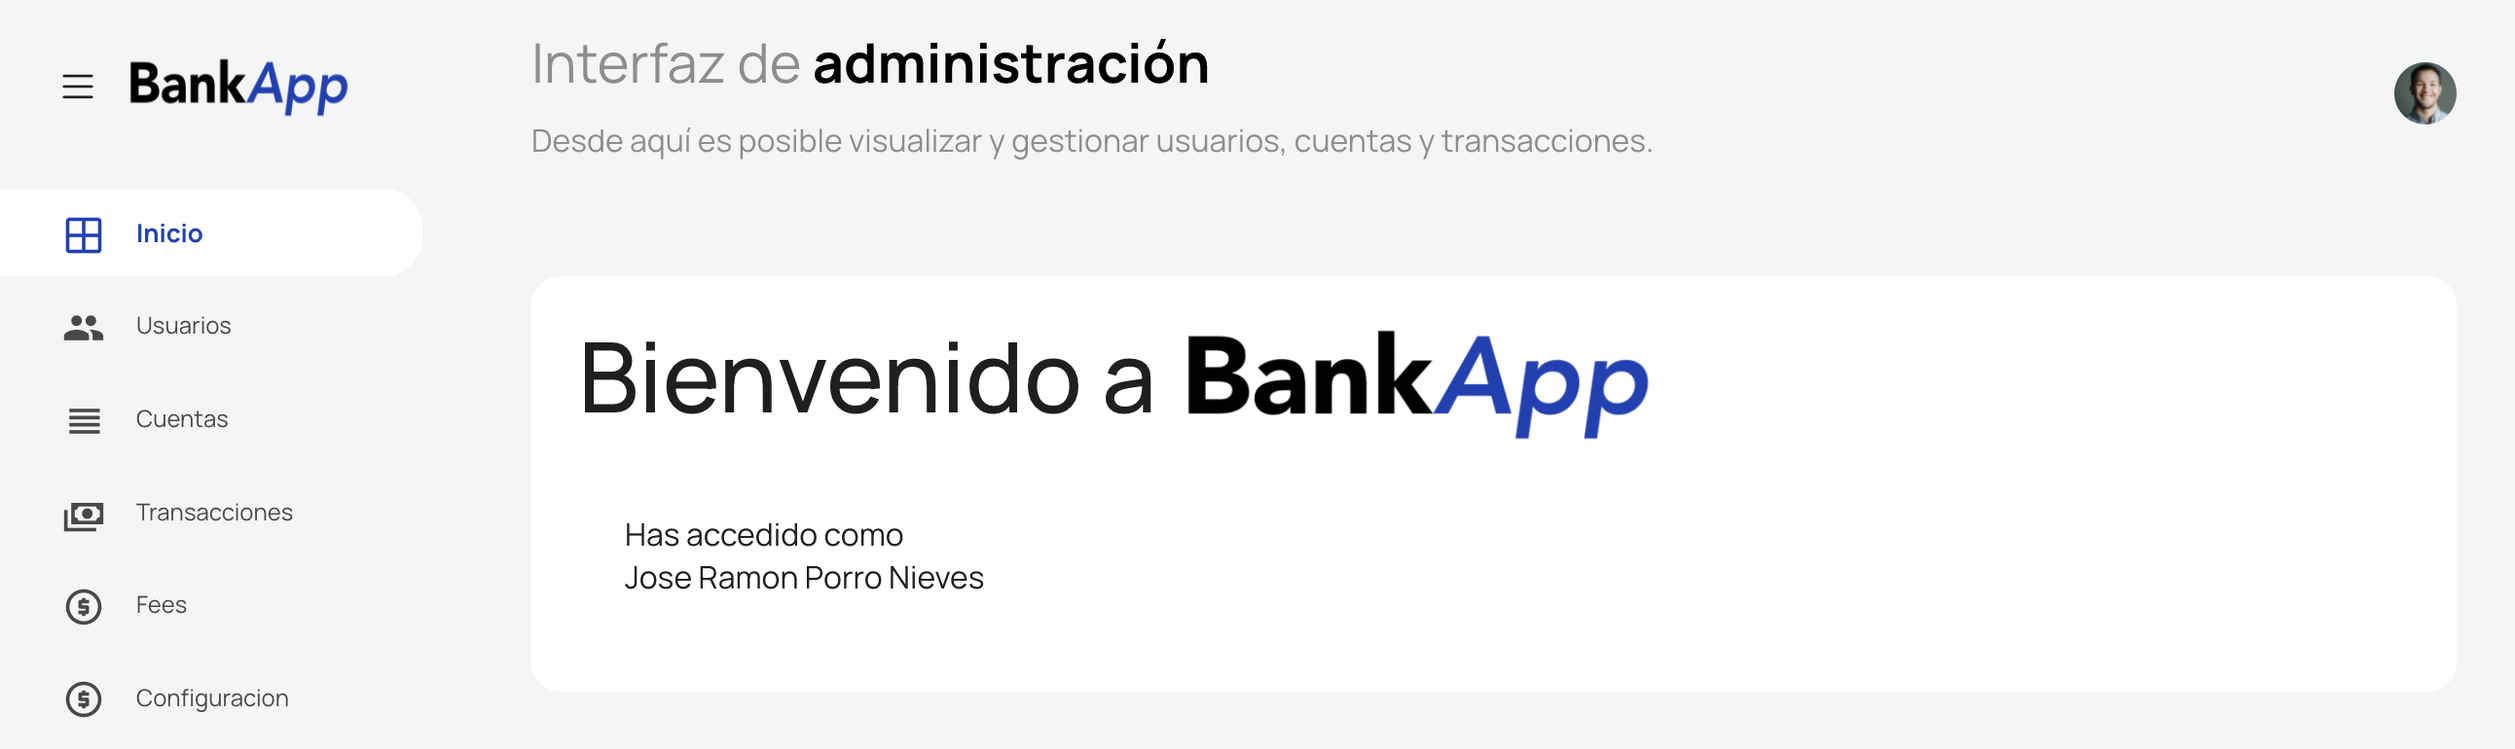
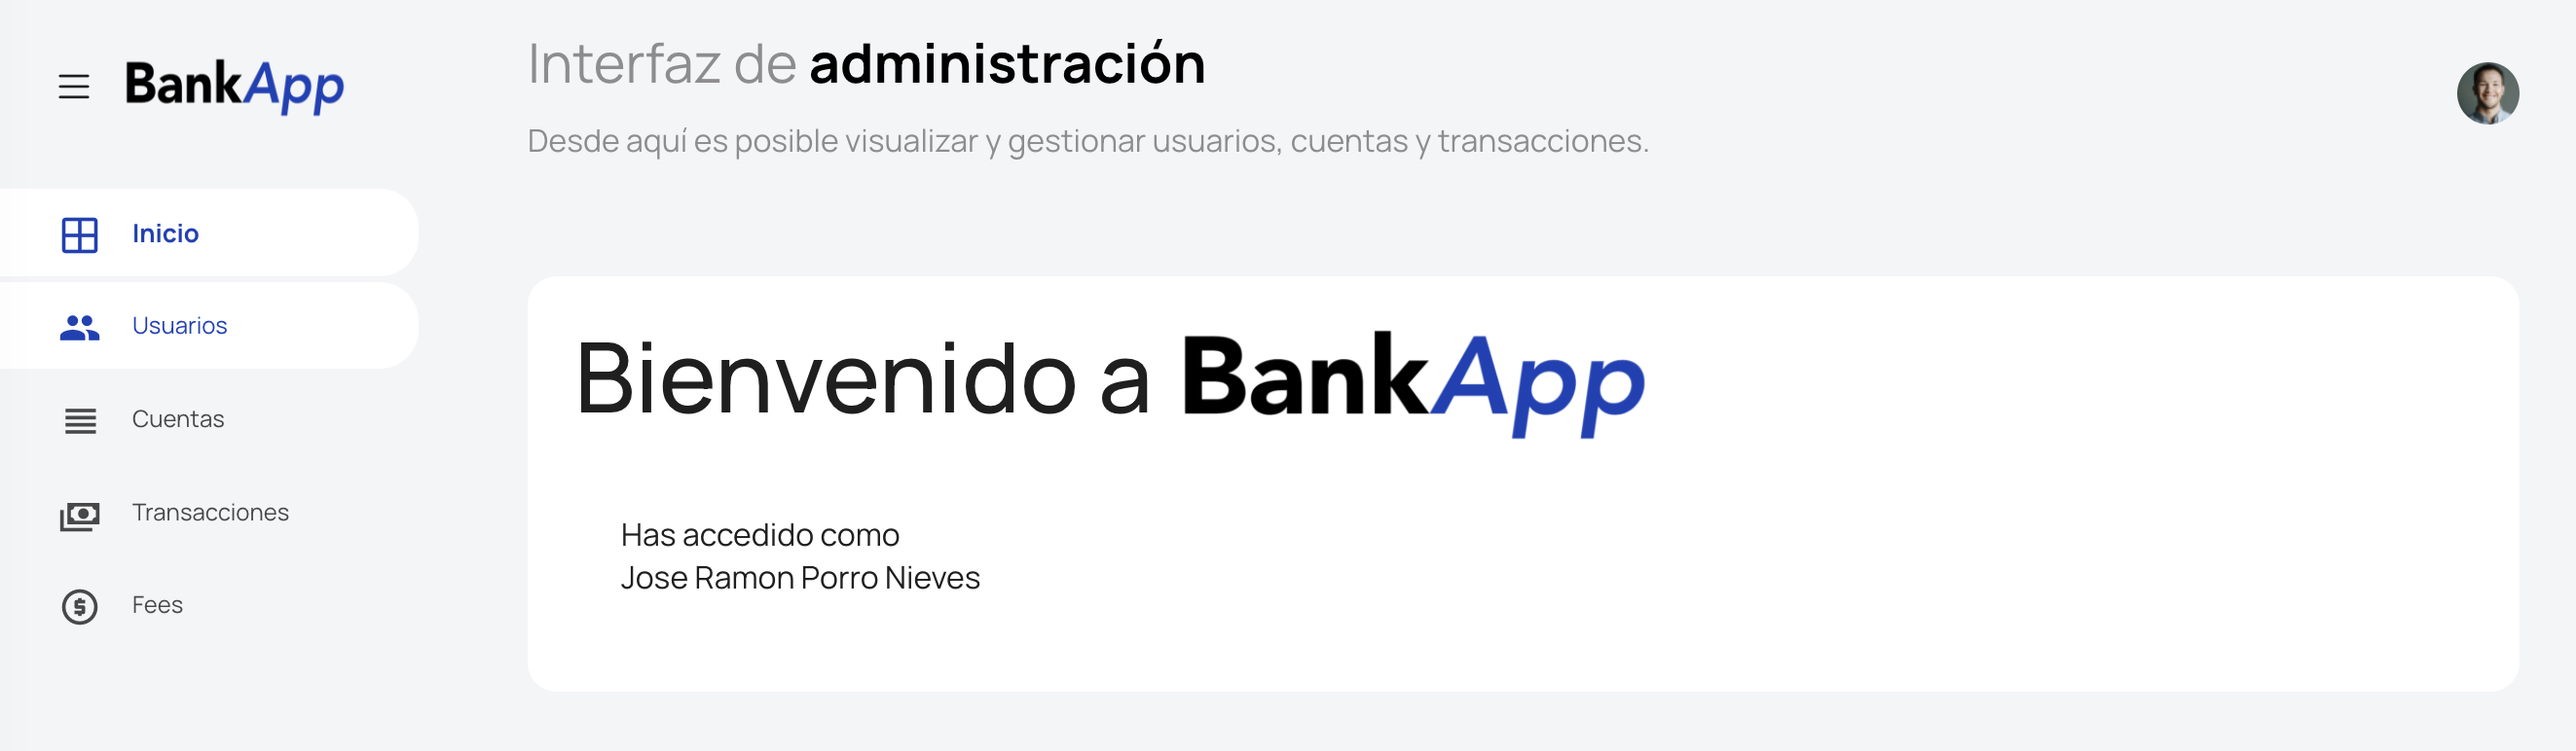
Final

diff --git a/src/main/resources/static/users.html b/src/main/resources/static/users.html
@@ -125,7 +125,7 @@
 
                           <h3>Usuarios</h3>
                           <a href="newUser.html">Crear nuevo usuario</a>
-                          <br><a href="userAccounts.html">Obtener cuentas asociadas a un usuario (DNI)</a>
+                          
                           <p>Para consultar las cuentas asociadas a un usuario, haga clic en alguna de las filas.</p>
                           <!-- Tabla principal -->
                           <div id="containerTabla">

diff --git a/src/main/resources/static/accounts.html b/src/main/resources/static/accounts.html
@@ -101,12 +101,6 @@
               <span class="menu-title">Fees</span>
             </a>
           </li>
-          <li class="nav-item">
-            <a class="nav-link" href="pagina.html">
-              <i class="mdi mdi-coin menu-icon"></i>
-              <span class="menu-title">Configuracion</span>
-            </a>
-          </li>
         </ul>
       </nav>
       <!-- partial -->

diff --git a/src/main/resources/static/admin.html b/src/main/resources/static/admin.html
@@ -103,12 +103,6 @@
               <span class="menu-title">Fees</span>
             </a>
           </li>
-          <li class="nav-item">
-            <a class="nav-link" href="pagina.html">
-              <i class="mdi mdi-coin menu-icon"></i>
-              <span class="menu-title">Configuracion</span>
-            </a>
-          </li>
         </ul>
       </nav>
       <!-- partial -->

diff --git a/src/main/resources/static/fees.html b/src/main/resources/static/fees.html
@@ -104,12 +104,6 @@
               <span class="menu-title">Fees</span>
             </a>
           </li>
-          <li class="nav-item">
-            <a class="nav-link" href="pagina.html">
-              <i class="mdi mdi-coin menu-icon"></i>
-              <span class="menu-title">Configuracion</span>
-            </a>
-          </li>
         </ul>
       </nav>
       <!-- partial -->

diff --git a/src/main/resources/static/newAccount.html b/src/main/resources/static/newAccount.html
@@ -101,12 +101,6 @@
               <span class="menu-title">Fees</span>
             </a>
           </li>
-          <li class="nav-item">
-            <a class="nav-link" href="pagina.html">
-              <i class="mdi mdi-coin menu-icon"></i>
-              <span class="menu-title">Configuracion</span>
-            </a>
-          </li>
         </ul>
       </nav>
       <!-- partial -->

diff --git a/src/main/resources/static/newUser.html b/src/main/resources/static/newUser.html
@@ -104,12 +104,6 @@
               <span class="menu-title">Fees</span>
             </a>
           </li>
-          <li class="nav-item">
-            <a class="nav-link" href="pagina.html">
-              <i class="mdi mdi-coin menu-icon"></i>
-              <span class="menu-title">Configuracion</span>
-            </a>
-          </li>
         </ul>
       </nav>
       <!-- partial -->

diff --git a/src/main/resources/static/transactions.html b/src/main/resources/static/transactions.html
@@ -101,12 +101,6 @@
               <span class="menu-title">Fees</span>
             </a>
           </li>
-          <li class="nav-item">
-            <a class="nav-link" href="pagina.html">
-              <i class="mdi mdi-coin menu-icon"></i>
-              <span class="menu-title">Configuracion</span>
-            </a>
-          </li>
         </ul>
       </nav>
       <!-- partial -->

diff --git a/src/main/resources/static/transactionsSearch.html b/src/main/resources/static/transactionsSearch.html
@@ -102,12 +102,6 @@
               <span class="menu-title">Fees</span>
             </a>
           </li>
-          <li class="nav-item">
-            <a class="nav-link" href="pagina.html">
-              <i class="mdi mdi-coin menu-icon"></i>
-              <span class="menu-title">Configuracion</span>
-            </a>
-          </li>
         </ul>
       </nav>
       <!-- partial -->
